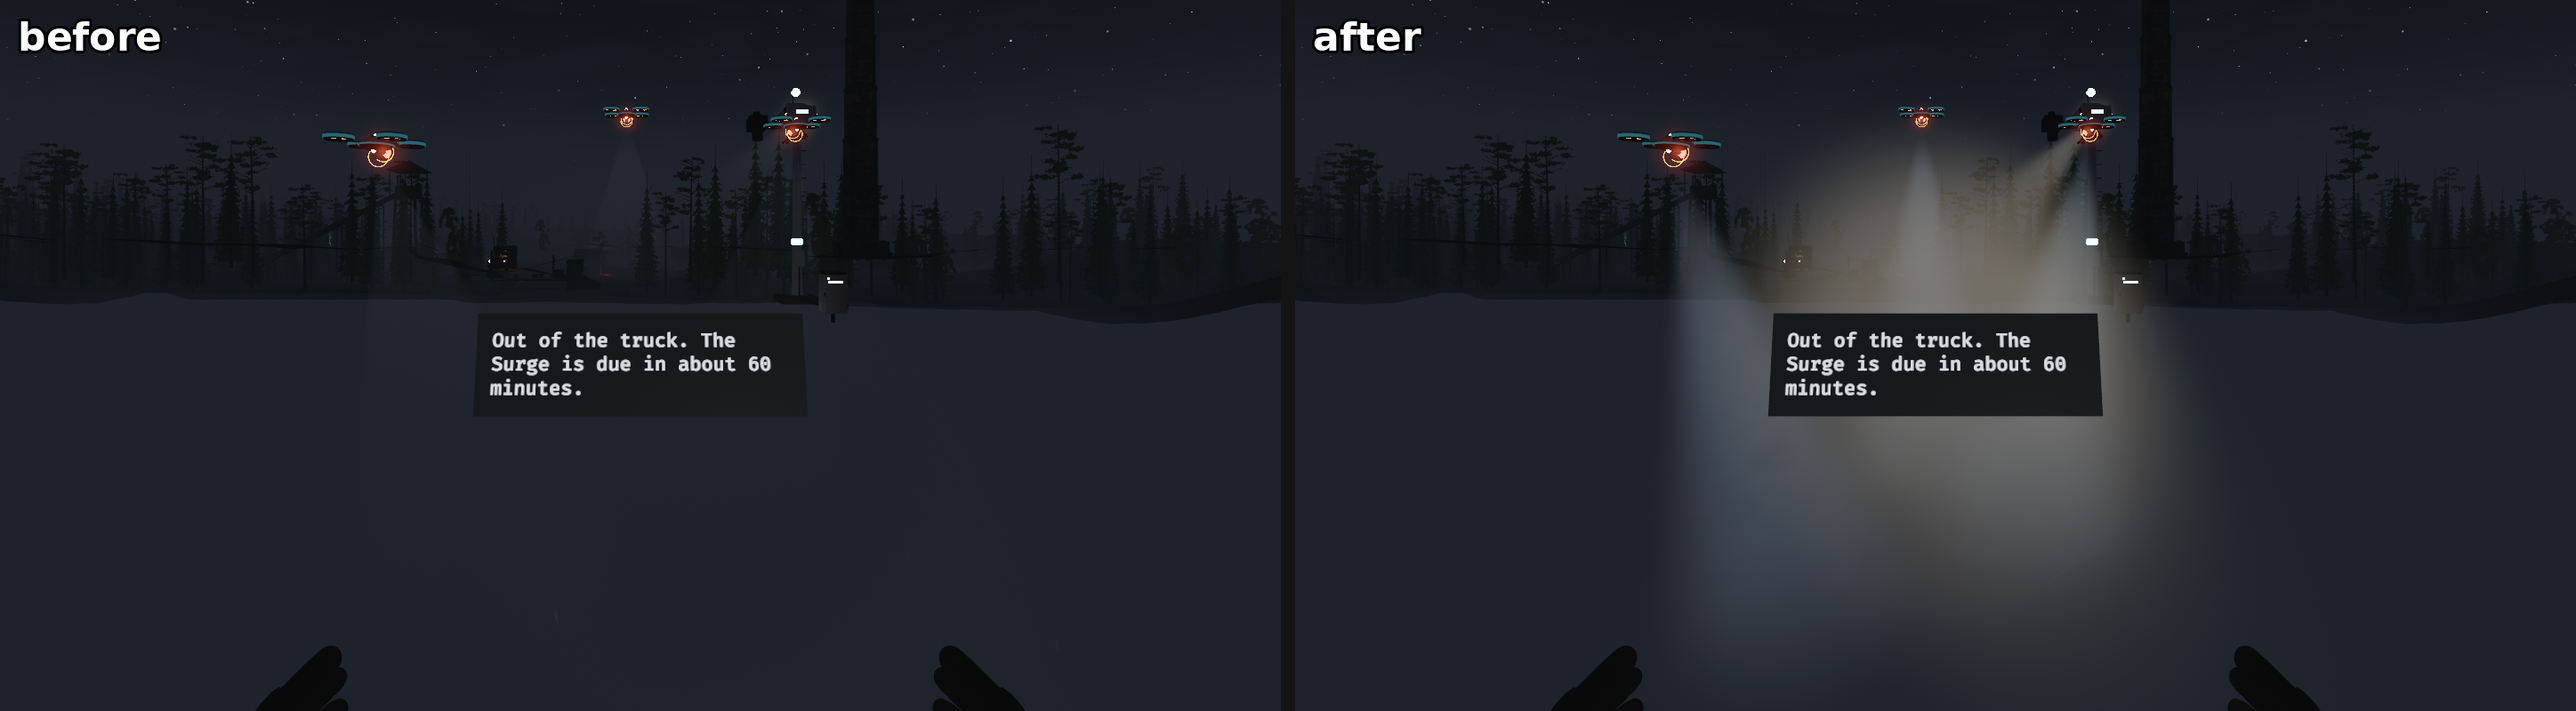
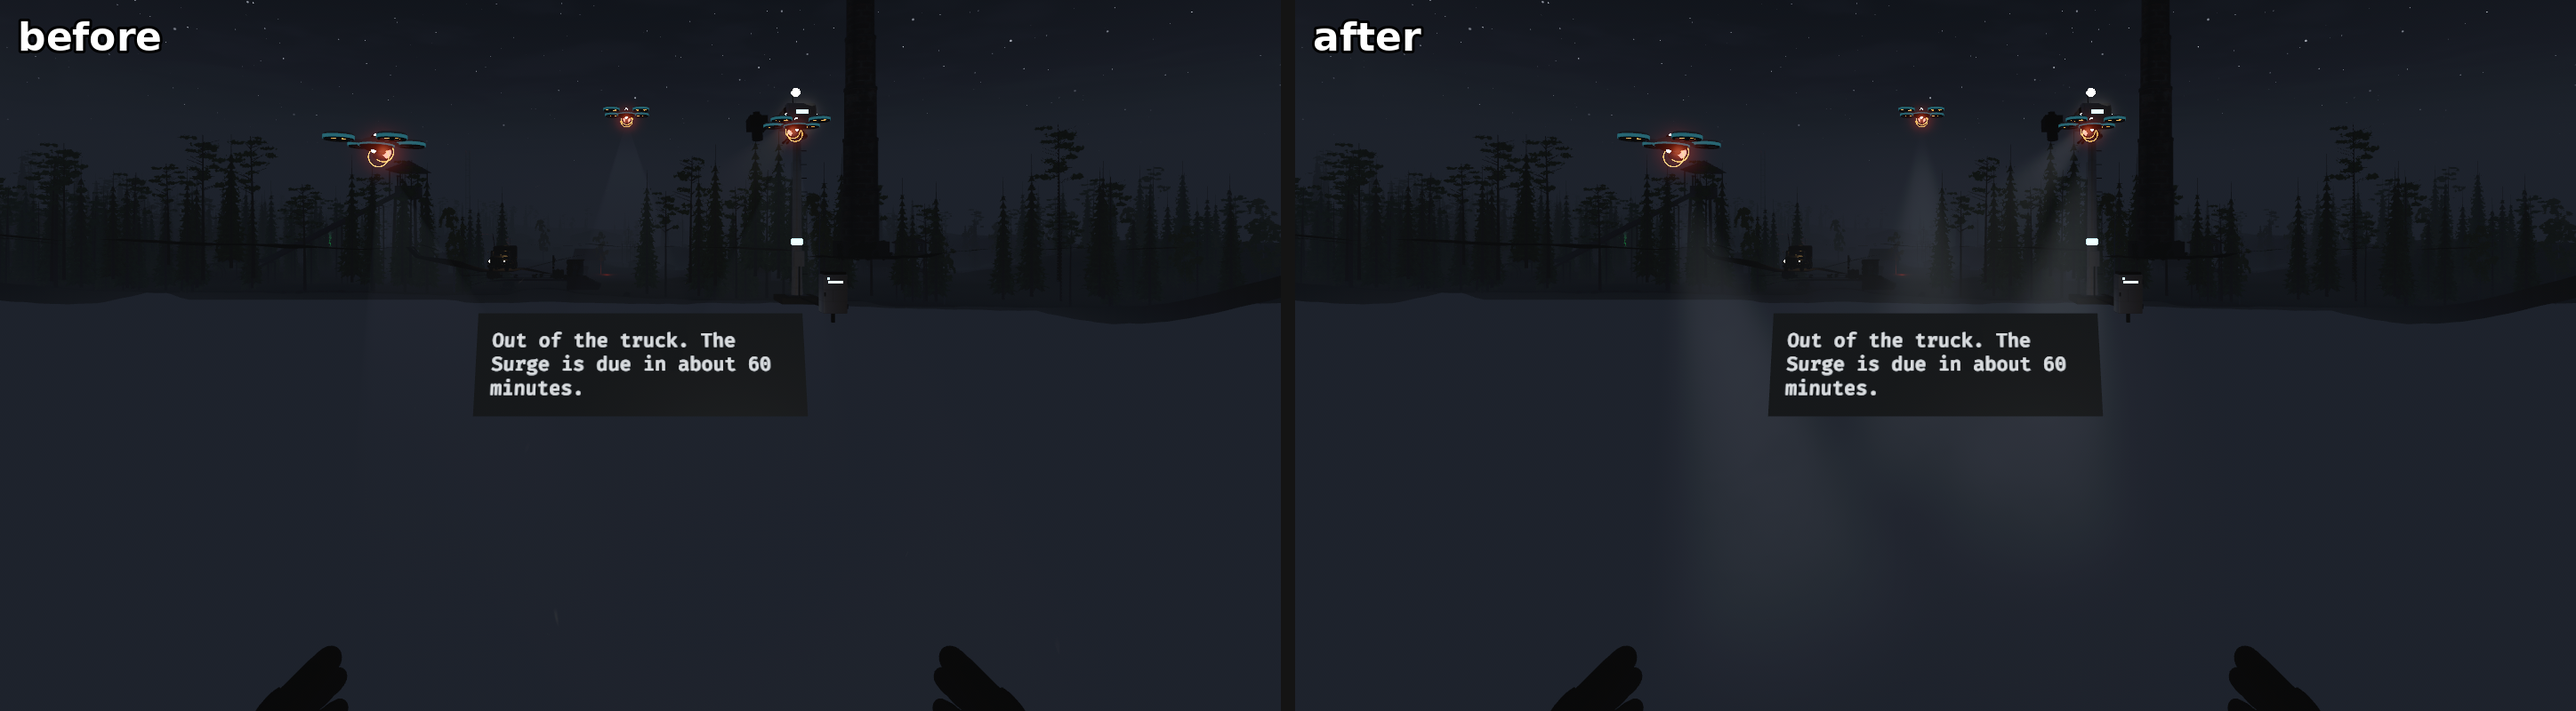
Beams: a lamp's haze is cold, faint in your hand, wet-air only, shared near the eye
Coordinator's tune of the #110 lamp rollout: a torch in your hand
(within 1.5 m of the eye) is a fifth-strength shaft, shown by what it
lights; a lamp's haze is cold whatever its colour (warm air reads as
shelter light); its strength goes with the wet in the air (lamp_haze:
next to nothing on a clear night); lamps whose beams come within 8 m of
the eye share one haze (two lamps' worth). Pictures re-shot.

Claude-Session: https://claude.ai/code/session_01Ka1TLmCaYKYxaoCkbURtaJ

Changed region(s): [[0.6526, 0.1875, 0.8702, 0.875]]

diff --git a/src/world/beams.rs b/src/world/beams.rs
@@ -24,10 +24,43 @@ impl Plugin for BeamsPlugin {
 /// The longest beam drawn (m): past that the light's too spread to show.
 pub const REACH: f32 = 14.0;
 
-/// A light's beam (a child of the light), and its own material: each
-/// beam's lamp, throw and air go to the shader.
+/// A light's beam (a child of the light), its own material (each beam's
+/// lamp, throw and air go to the shader), and how strong its lamp is.
 #[derive(Component)]
-struct Beam(Handle<FogBeamMaterial>);
+struct Beam {
+    material: Handle<FogBeamMaterial>,
+    strength: f32,
+}
+
+/// The colour a lamp's haze takes: cold, whatever the lamp. A warm glow in
+/// the air reads as a shelter's light (the lit tells); the lamp's own
+/// colour stays on what it lights.
+const HAZE: Vec3 = Vec3::new(0.85, 0.92, 1.0);
+
+/// A lamp this near the eye is in your hand (a torch): it shows by what it
+/// lights, with only a faint shaft, never a haze over where you point it.
+const AT_HAND: f32 = 1.5;
+const HAND_SHAFT: f32 = 0.2;
+
+/// Lamps whose beams come this near the eye share one haze between them:
+/// three drones and a torch over you light the air no more than two lamps
+/// would.
+const NEAR_EYE: f32 = 8.0;
+const SHARED_BY: f32 = 2.0;
+
+/// How much a lamp's haze shows for the air: next to nothing on a clear
+/// night, half in drizzle, all of it in fog. (A searchlight's long throw
+/// shows on any night; a lamp's few metres need real wet air.)
+pub fn lamp_haze(c: &Conditions) -> f32 {
+    ((air(c).0 - 0.2) / 0.6).clamp(0.05, 1.0)
+}
+
+/// The nearest a beam from `lamp` along `dir` (unit), `len` long, comes to
+/// `eye`.
+fn reach_to(eye: Vec3, lamp: Vec3, dir: Vec3, len: f32) -> f32 {
+    let t = (eye - lamp).dot(dir).clamp(0.0, len);
+    eye.distance(lamp + dir * t)
+}
 
 /// Where a light's beam lands (m, from the light; `REACH` when it finds
 /// nothing), settled over a few frames: on the light. A held torch on a
@@ -65,11 +98,13 @@ fn add_beams(
             .get_or_insert_with(|| meshes.add(fog_beam::cone()))
             .clone();
         let c = spot.color.to_linear();
+        let haze = Vec3::new(c.red, c.green, c.blue).lerp(HAZE, 0.75);
         let tan = spot.outer_angle.tan();
+        let strength = radiance(spot.intensity);
         // (Placed by `throw_beams` once the light is where it is.)
         let material = materials.add(FogBeamMaterial {
             params: FogBeamParams {
-                light: Vec4::new(c.red, c.green, c.blue, radiance(spot.intensity)),
+                light: haze.extend(strength),
                 apex: Vec3::ZERO.extend(tan),
                 axis: Vec3::NEG_Z.extend(REACH),
                 air: Vec4::new(0.5, 0.0, -1000.0, 0.0),
@@ -78,7 +113,10 @@ fn add_beams(
         });
         commands.entity(e).insert(Throw(REACH)).with_child((
             Name::new("Torch beam"),
-            Beam(material.clone()),
+            Beam {
+                material: material.clone(),
+                strength,
+            },
             Mesh3d(mesh),
             MeshMaterial3d(material),
             beam_transform(tan, REACH),
@@ -115,6 +153,19 @@ fn throw_beams(
 ) {
     let eye = crate::render::puff::eye(&eyes);
     let density = fog_beam::air_density(&conditions);
+    let wet = lamp_haze(&conditions);
+    // How many lamps' beams come near the eye (last frame's throws): they
+    // share one haze.
+    let near = eye.map_or(0, |e| {
+        lights
+            .iter()
+            .filter(|(gt, _, throw)| {
+                let len = throw.map_or(REACH, |t| t.0);
+                reach_to(e, gt.translation(), gt.forward().as_vec3(), len) < NEAR_EYE
+            })
+            .count()
+    });
+    let share = (SHARED_BY / near.max(1) as f32).min(1.0);
     let day = weather
         .as_ref()
         .map_or(0.0, |w| 1.0 - w.night.clamp(0.0, 1.0));
@@ -140,7 +191,7 @@ fn throw_beams(
             let hit = landed.max(0.8);
             // Settle, don't snap: a ray grazing an edge flickers.
             let len = xf.scale.z + (hit - xf.scale.z) * 0.5;
-            let Some(m) = materials.get(&beam.0) else {
+            let Some(m) = materials.get(&beam.material) else {
                 continue;
             };
             let tan = m.params.apex.w;
@@ -155,8 +206,15 @@ fn throw_beams(
             let ground = zone
                 .as_ref()
                 .map_or(end.y, |z| z.ground(end.x, end.z).min(end.y));
+            // A torch in your hand: a faint shaft. Near the eye: its share.
+            let at_hand = eye.is_some_and(|e| e.distance(lamp) < AT_HAND);
+            let close = eye.is_some_and(|e| reach_to(e, lamp, dir, len) < NEAR_EYE);
+            let strength = beam.strength
+                * wet
+                * if at_hand { HAND_SHAFT } else { 1.0 }
+                * if close { share } else { 1.0 };
             let p = FogBeamParams {
-                light: m.params.light,
+                light: m.params.light.truncate().extend(strength),
                 apex: lamp.extend(tan),
                 axis: dir.extend(len),
                 air: Vec4::new(density, day, ground, fog_beam::LAMP_SPREAD),
@@ -166,11 +224,12 @@ fn throw_beams(
             // moves most frames; one standing on a ledge doesn't).
             let q = m.params;
             let changed = (q.apex - p.apex).length() > 0.01
+                || (q.light.w - p.light.w).abs() > 0.01
                 || (q.axis - p.axis).length() > 0.002
                 || (q.air - p.air).length() > 0.02
                 || m.inside != inside;
             if changed {
-                if let Some(mut m) = materials.get_mut(&beam.0) {
+                if let Some(mut m) = materials.get_mut(&beam.material) {
                     m.params = p;
                     m.inside = inside;
                 }
@@ -190,5 +249,21 @@ mod tests {
         assert!(at(WeatherKind::PeaSouper) > at(WeatherKind::Drizzle));
         assert!(at(WeatherKind::Downpour) > at(WeatherKind::Clearing));
         assert!(at(WeatherKind::Clearing) > 0.0, "dust shows it a little");
+    }
+
+    /// A lamp's haze is next to nothing on a clear night, and grows with
+    /// the wet in the air.
+    #[test]
+    fn a_lamps_haze_needs_wet_air() {
+        use super::super::weather::Hour;
+        let at = |k| lamp_haze(&Conditions::compose(k, Hour::Night, 4));
+        // (A clear night's ground mist is in it: under a third.)
+        assert!(
+            at(WeatherKind::Clearing) < 0.33,
+            "{}",
+            at(WeatherKind::Clearing)
+        );
+        assert!(at(WeatherKind::Drizzle) > at(WeatherKind::Clearing));
+        assert!(at(WeatherKind::PeaSouper) > at(WeatherKind::Drizzle));
     }
 }

diff --git a/docs/shots/robot-bodies/README.md b/docs/shots/robot-bodies/README.md
@@ -312,5 +312,5 @@ The user on the #99 pictures: "Lights on fog look much prettier than that! Not l
 | `light_in_fog_day_before_after.png` | `reel:search,4,40` by day, clearing, frame 0 (camera `40,0,262,0,8`, crop 1400x1080 of 1920x1080): the solid cone before, hazy shafts under the lamps after; pools and rims unchanged |
 | `light_in_fog_dusk_before_after.png` | Dusk, frame 2, beams steered across the field toward you: flat translucent slabs before, light through drifting haze after |
 | `light_in_fog_night_drizzle_before_after.png` | Night in drizzle, frame 2: white slabs before; after, shafts bright at the lamp, billowing, thinning down their length |
-| `light_in_fog_lamps_night_drizzle_before_after.png` | Every spotlight's beam onto the same look (`world::beams`): `reel:lamps,4,30`, night in drizzle, frame 2 (camera `40,0,262,0,0`, crop 1440x800 of 1920x1080). Three drones' belly lamps 8-14 m off, a sentry's lamp 16 m off facing you, a hand torch at your hip. Before: faint additive wedges under the drones, the torch and sentry barely there. After: each drone's light falls through the drizzle and thins to the ground, the sentry's comes at you, the torch lights the haze ahead and not the air at your hand |
-| `light_in_fog_lamps_night_clearing_before_after.png` | The same on a clear night: less haze, so less shows (still more than a dry night's real air would, a tuning call to make in the headset) |
+| `light_in_fog_lamps_night_drizzle_before_after.png` | Every spotlight's beam onto the same look (`world::beams`): `reel:lamps,4,30`, night in drizzle, frame 2 (camera `40,0,262,0,0`, crop 1440x800 of 1920x1080). Three drones' belly lamps 8-14 m off, a sentry's lamp 16 m off facing you, a hand torch at your hip. Before: faint additive wedges under the drones, the torch and sentry barely there. After: each drone's light falls through the drizzle, cold, and thins to the ground. The torch in your hand is a faint shaft, shown by what it lights, never a haze over where you point it. A lamp's haze is cold whatever its colour (a warm glow reads as shelter light), and lamps whose beams come near the eye share one haze, so three drones and a torch never wash the view |
+| `light_in_fog_lamps_night_clearing_before_after.png` | The same on a clear night: a lamp's haze goes with the wet in the air (`world::beams::lamp_haze`), so next to nothing shows |
